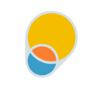
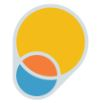
Updated

diff --git a/src/components/Works/style.css b/src/components/Works/style.css
@@ -17,9 +17,9 @@
   padding-right: 69.5%;
   float: right;
 }
-@media (min-width: 800px) {
+@media (min-width: 350px) {
   .company img{
-    width: 7%;
+    width: 90px;
     height: auto;
   } 
 }
